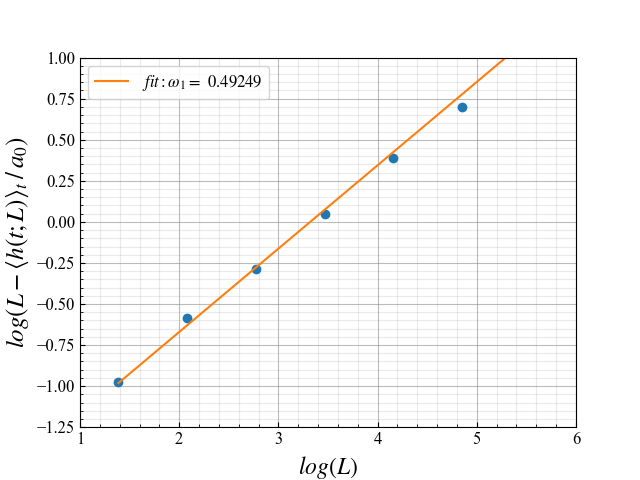
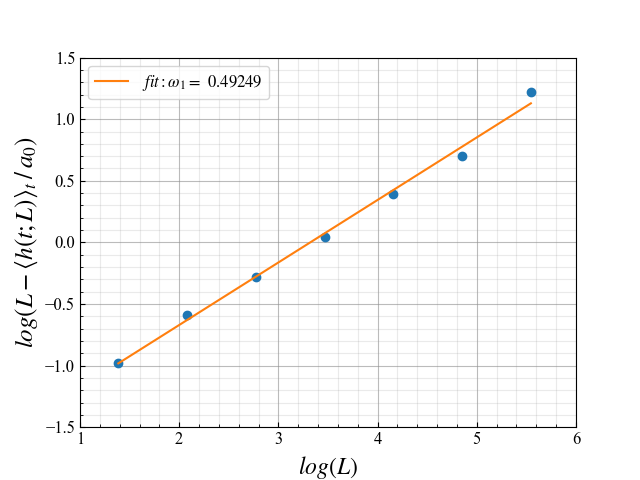
Completed Task3a and fixed some more stuff

diff --git a/main.py b/main.py
@@ -609,7 +609,7 @@ def task_2_e():
     plt.xticks(fontsize=12, fontname='Times New Roman')
     plt.yticks(fontsize=12, fontname='Times New Roman')
     plt.xlim(1, 6)
-    plt.ylim(-1.25, 1)
+    plt.ylim(-1.5, 1.5)
     plt.savefig('Plots/Task2/task2e.png')
     plt.show()
 
@@ -943,11 +943,85 @@ def task_3_a(compute=True, plot=False):
         plt.xticks(fontsize=12, fontname='Times New Roman')
         plt.yticks(fontsize=12, fontname='Times New Roman')
         plt.xlim(1, 1e5)
-        plt.savefig('Plots/Task3/task3a_i.png')
+        plt.ylim(10e-6, 1)
+        plt.savefig('Plots/Task3/task3a_a_i.png')
         plt.show()
 
-        tau = 2.089
-        d = 1.5227
+        l = [4, 8, 16, 32, 64, 128, 256]
+        s_max_4 = max(avalanches[0])
+        s_max_8 = max(avalanches[1])
+        s_max_16 = max(avalanches[2])
+        s_max_32 = max(avalanches[3])
+        s_max_64 = max(avalanches[4])
+        s_max_128 = max(avalanches[5])
+        s_max_256 = max(avalanches[6])
+
+        s_max = [s_max_4, s_max_8, s_max_16, s_max_32, s_max_64, s_max_128, s_max_256]
+               
+        fig, ax = plt.subplots()
+        params = {'legend.fontsize': 12}
+        plt.rcParams.update(params)
+        matplotlib.rcParams['mathtext.fontset'] = 'custom'
+        matplotlib.rcParams['mathtext.rm'] = 'Bitstream Vera Sans'
+        matplotlib.rcParams['mathtext.it'] = 'Bitstream Vera Sans:italic'
+        matplotlib.rcParams['mathtext.bf'] = 'Bitstream Vera Sans:bold'
+        matplotlib.rcParams['mathtext.fontset'] = 'stix'
+        s_max_log = np.log(s_max)
+        l_log = np.log(l)
+        fit_phase_1, cov_phase = np.polyfit(l_log, s_max_log, 1, cov=True)
+        p_phase = np.poly1d(fit_phase_1)
+        l_space_log = np.linspace(min(l_log), max(l_log), 500)
+        plt.plot(l_log, s_max_log, 'o', label=r'$data$')
+        plt.plot(l_space_log, p_phase(l_space_log), label=r'$fit: \: gradient={}$'.format(str(round(fit_phase_1[0], 3))))
+        plt.legend()
+        plt.xlabel(r'$\it{log({L})}$', fontname='Times New Roman', fontsize=17)
+        plt.ylabel(r'$\it{log({s_{max}})}$', fontname='Times New Roman', fontsize=17)
+        plt.minorticks_on()
+        ax.tick_params(direction='in')
+        ax.tick_params(which='minor', direction='in')
+        plt.grid(b=True, which='major', color='#8e8e8e', linestyle='-', alpha=0.4)
+        plt.grid(b=True, which='minor', color='#999999', linestyle='-', alpha=0.1)
+        plt.xticks(fontsize=12, fontname='Times New Roman')
+        plt.yticks(fontsize=12, fontname='Times New Roman')
+        plt.xlim(1, 6)
+        plt.ylim(2, 14)
+        plt.savefig('Plots/Task3/task3a_b_i.png')
+        plt.show()
+
+        s_256_log = np.log(x_256[:170])
+        y_256_log = np.log(y_256[:170])
+
+        fig, ax = plt.subplots()
+        params = {'legend.fontsize': 12}
+        plt.rcParams.update(params)
+        matplotlib.rcParams['mathtext.fontset'] = 'custom'
+        matplotlib.rcParams['mathtext.rm'] = 'Bitstream Vera Sans'
+        matplotlib.rcParams['mathtext.it'] = 'Bitstream Vera Sans:italic'
+        matplotlib.rcParams['mathtext.bf'] = 'Bitstream Vera Sans:bold'
+        matplotlib.rcParams['mathtext.fontset'] = 'stix'
+        fit_phase_2, cov_phase = np.polyfit(s_256_log, y_256_log, 1, cov=True)
+        p_phase = np.poly1d(fit_phase_2)
+        s_space_log = np.linspace(min(s_256_log), max(s_256_log), 500)
+        plt.plot(s_256_log, y_256_log, 'o', label=r'$data$')
+        plt.plot(s_space_log, p_phase(s_space_log), label=r'$fit: \: gradient\equiv-\tau={}$'.format(str(round(fit_phase_2[0], 3))))
+        plt.legend()
+        plt.xlabel(r'$\it{log({s})}$', fontname='Times New Roman', fontsize=17)
+        plt.ylabel(r'$\it{log({P(s; L)})}$', fontname='Times New Roman', fontsize=17)
+        plt.minorticks_on()
+        ax.tick_params(direction='in')
+        ax.tick_params(which='minor', direction='in')
+        plt.grid(b=True, which='major', color='#8e8e8e', linestyle='-', alpha=0.4)
+        plt.grid(b=True, which='minor', color='#999999', linestyle='-', alpha=0.1)
+        plt.xticks(fontsize=12, fontname='Times New Roman')
+        plt.yticks(fontsize=12, fontname='Times New Roman')
+        plt.xlim(-1, 6)
+        plt.ylim(-10, -1)
+        plt.savefig('Plots/Task3/task3a_b_ii.png')
+        plt.show()
+
+        tau = -fit_phase_2[0]
+        d = fit_phase_1[0]
+
         x_4_log = x_4 / (4**d)
         x_8_log = x_8 / (8**d)
         x_16_log = x_16 / (16**d)
@@ -982,7 +1056,7 @@ def task_3_a(compute=True, plot=False):
         ax.set_yscale('log')
         plt.legend()
         plt.xlabel(r'$\it{s \: / \: L^{D}}$', fontname='Times New Roman', fontsize=17)
-        plt.ylabel(r'$\it{ s^{-\tau_s} \tilde P_N(s)}$', fontname='Times New Roman', fontsize=17)
+        plt.ylabel(r'$\it{ s^{\tau_s} \tilde P_N(s)}$', fontname='Times New Roman', fontsize=17)
         plt.minorticks_on()
         ax.tick_params(direction='in')
         ax.tick_params(which='minor', direction='in')
@@ -991,8 +1065,8 @@ def task_3_a(compute=True, plot=False):
         plt.xticks(fontsize=12, fontname='Times New Roman')
         plt.yticks(fontsize=12, fontname='Times New Roman')
         plt.xlim(10e-5, 10)
-        plt.ylim(10e-3, 1e5)
-        plt.savefig('Plots/Task3/task3a_ii.png')
+        plt.ylim(10e-3, 1e4)
+        plt.savefig('Plots/Task3/task3a_b_iii.png')
         plt.show()
 
 
@@ -1107,6 +1181,6 @@ if __name__ == '__main__':
     # task_2_d(compute=False, plot=True)
     # task_2_e()
     # task_2_f()
-    task_2_g(compute=False, plot=True)
-    # task_3_a(compute=False, plot=True)
+    # task_2_g(compute=False, plot=True)
+    task_3_a(compute=False, plot=True)
     # task_3_b()
